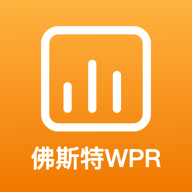
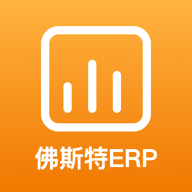
Add files via upload

Changed region(s): [[0.1562, 0.75, 0.8438, 0.9062]]

diff --git a/admin.html b/admin.html
@@ -4,7 +4,7 @@
 <meta charset="utf-8">
 <meta name="viewport" content="width=device-width, initial-scale=1, viewport-fit=cover">
 <meta name="robots" content="noindex">
-<title>收購後台｜iPhone收購中心</title>
+<title>佛斯特ERP</title>
 <meta name="apple-mobile-web-app-capable" content="yes">
 <meta name="mobile-web-app-capable" content="yes">
 <script>/* 加到主畫面：門市工作台（?shop=1）與收購後台用不同的 App 名稱、圖示 */
@@ -13,7 +13,7 @@
   document.write('<link rel="manifest" href="' + (shop ? 'shop' : 'admin') + '.webmanifest">'
     + '<link rel="apple-touch-icon" href="icons/' + (shop ? 'icon' : 'admin') + '-180.png">'
     + '<link rel="icon" href="icons/' + (shop ? 'icon' : 'admin') + '-192.png">'
-    + '<meta name="apple-mobile-web-app-title" content="' + (shop ? '門市收購' : '佛斯特WPR') + '">');
+    + '<meta name="apple-mobile-web-app-title" content="' + (shop ? '門市收購' : '佛斯特ERP') + '">');
 })();
 </script>
 <meta name="theme-color" content="#f5f5f7">
@@ -421,7 +421,7 @@ function pagesNav(cur) {
 function staffLoginPage(denied) {
   $('#who').textContent = ''; $('#logout').hidden = true; $('#refresh').hidden = true;
   app.innerHTML = `<div class="card staff-login rise">
-    <h2 class="card-title" style="font-size:22px">${SHOP ? '門市工作台登入' : '收購後台登入'}</h2>
+    <h2 class="card-title" style="font-size:22px">${SHOP ? '門市工作台登入' : '佛斯特ERP 登入'}</h2>
     <p class="muted" style="margin:6px 0 20px">請輸入老闆給您的員工帳號與密碼</p>
     ${denied ? `<div class="alert">目前登入的${denied.via === 'LINE' ? ' LINE ' : ' '}帳號「${esc(denied.name)}」沒有後台權限，請改用員工帳號登入。
       ${denied.via === 'LINE' ? `<details style="margin-top:6px"><summary>我是老闆，要開通這個 LINE 帳號</summary>
